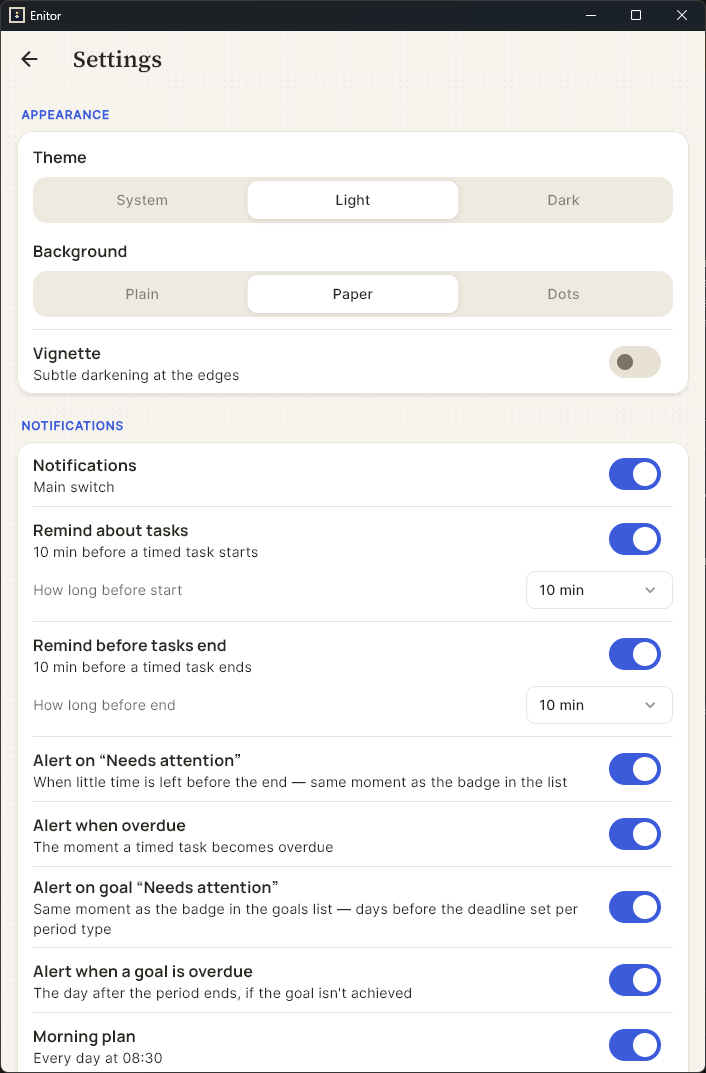
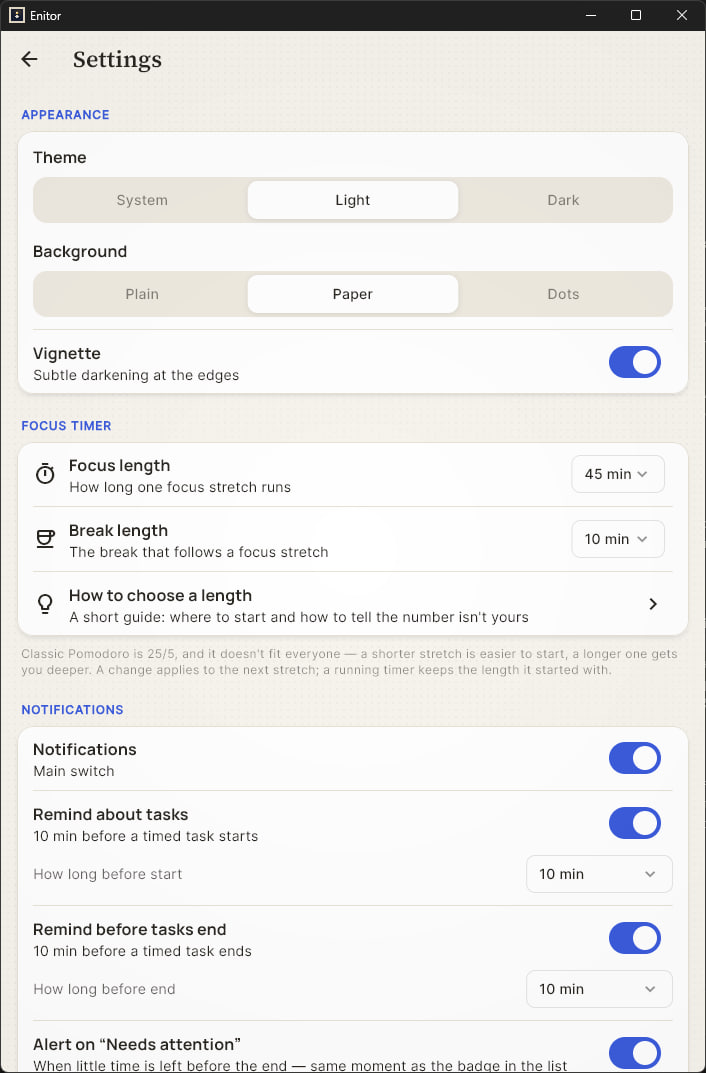
Bring the README and the site up to date with the timer
The configurable lengths shipped, but the pages still described the old fixed
cycle. The README knew about the setting and said nothing about the guide that
comes with it — half of the feature, and the half that decides whether the
setting gets used at all. Both language versions of the site only had the old
line about Pomodoro logging real time.

The site never stated the system requirements. A phone on Android 6 would
download the APK and fail at the installer with nothing to explain why, so the
install cards now say Android 7.0 and Windows 10 outright, the way the README
already did.

The settings screenshot predated the feature: it showed Appearance running
straight into Notifications, with no Focus timer section between them. Replaced
with a current one, and its captions in three places now list what the screen
actually contains.

Deleted docs/ui-changes-log.md. It logged the interface work up to v0.1.0, was
never updated after, and nothing anywhere linked to it — a stale file that
looked like documentation.

diff --git a/docs/ru/index.html b/docs/ru/index.html
@@ -235,7 +235,7 @@
             <li>Серия дней и разница в продуктивности с прошлой неделей</li>
             <li>Достижения за объём, регулярность, пунктуальность и вехи</li>
             <li>Верхние спрятаны под «???», пока не заработаны</li>
-            <li>Сессии Pomodoro сами записываются как потраченное время и питают ту же статистику</li>
+            <li>Сессии Pomodoro сами записываются как потраченное время и питают ту же статистику, а длина фокуса и перерыва настраивается — 25/5 это только значение по умолчанию</li>
           </ul>
         </div>
         <div class="shot">
@@ -336,10 +336,10 @@
           <figcaption>Достижения, часть ещё скрыта</figcaption>
         </figure>
         <figure class="reveal">
-          <button class="zoom" type="button" data-caption="Настройки — тема, фон, напоминания, резервные копии">
-            <picture><source srcset="../screenshots/windows/settings.webp" type="image/webp" /><img src="../screenshots/windows/settings.png" width="706" height="1073" loading="lazy" alt="Настройки: тема, фон, уведомления, резервные копии" /></picture>
+          <button class="zoom" type="button" data-caption="Настройки — тема, фон, таймер фокуса, напоминания, резервные копии">
+            <picture><source srcset="../screenshots/windows/settings.webp" type="image/webp" /><img src="../screenshots/windows/settings.png" width="706" height="1073" loading="lazy" alt="Настройки: тема, фон, длины таймера фокуса, уведомления" /></picture>
           </button>
-          <figcaption>Тема, фон, напоминания, копии</figcaption>
+          <figcaption>Тема, фон, таймер фокуса, напоминания</figcaption>
         </figure>
         <figure class="reveal">
           <button class="zoom" type="button" data-caption="Тёмная тема — отдельное решение, а не инверсия">
@@ -412,7 +412,7 @@
       <div class="plats">
         <div class="plat reveal">
           <h3>Windows</h3>
-          <p class="sub">Портативная сборка — папка, которую можно положить куда угодно.</p>
+          <p class="sub">Портативная сборка — папка, которую можно положить куда угодно. Windows 10 и новее.</p>
           <ol>
             <li>Скачать <code>enitor-vX.Y.Z-windows.zip</code></li>
             <li>Распаковать в любое место</li>
@@ -424,7 +424,7 @@
 
         <div class="plat reveal">
           <h3>Android</h3>
-          <p class="sub">Один APK на arm64, arm32 и x86_64.</p>
+          <p class="sub">Один APK на arm64, arm32 и x86_64. Android 7.0 и новее.</p>
           <ol>
             <li>Скачать <code>enitor-vX.Y.Z.apk</code> на телефон</li>
             <li>Разрешить установку из браузера или файлового менеджера, когда спросит</li>

diff --git a/docs/index.html b/docs/index.html
@@ -242,7 +242,7 @@
             <li>Daily streak, plus your productivity delta against last week</li>
             <li>Achievements for volume, consistency, punctuality and milestones</li>
             <li>Top-tier ones stay hidden as "???" until you earn them</li>
-            <li>Pomodoro sessions log themselves as real time spent, feeding the same stats</li>
+            <li>Pomodoro sessions log themselves as real time spent, feeding the same stats — and both the focus and the break run as long as suits you, 25/5 being only the default</li>
           </ul>
         </div>
         <div class="shot">
@@ -343,10 +343,10 @@
           <figcaption>Achievements, some still hidden</figcaption>
         </figure>
         <figure class="reveal">
-          <button class="zoom" type="button" data-caption="Settings — theme, background, reminders, backup">
-            <picture><source srcset="screenshots/windows/settings.webp" type="image/webp" /><img src="screenshots/windows/settings.png" width="706" height="1073" loading="lazy" alt="Settings: theme, background, notifications, backup" /></picture>
+          <button class="zoom" type="button" data-caption="Settings — theme, background, focus timer, reminders, backup">
+            <picture><source srcset="screenshots/windows/settings.webp" type="image/webp" /><img src="screenshots/windows/settings.png" width="706" height="1073" loading="lazy" alt="Settings: theme, background, focus timer lengths, notifications" /></picture>
           </button>
-          <figcaption>Theme, background, reminders, backup</figcaption>
+          <figcaption>Theme, background, focus timer, reminders</figcaption>
         </figure>
         <figure class="reveal">
           <button class="zoom" type="button" data-caption="Dark theme — a separate decision, not an inversion">
@@ -419,7 +419,7 @@
       <div class="plats">
         <div class="plat reveal">
           <h3>Windows</h3>
-          <p class="sub">Portable build — a folder you can put anywhere.</p>
+          <p class="sub">Portable build — a folder you can put anywhere. Windows 10 or later.</p>
           <ol>
             <li>Download <code>enitor-vX.Y.Z-windows.zip</code></li>
             <li>Unpack it wherever you like</li>
@@ -431,7 +431,7 @@
 
         <div class="plat reveal">
           <h3>Android</h3>
-          <p class="sub">A single APK covering arm64, arm32 and x86_64.</p>
+          <p class="sub">A single APK covering arm64, arm32 and x86_64. Android 7.0 or later.</p>
           <ol>
             <li>Download <code>enitor-vX.Y.Z.apk</code> on the phone</li>
             <li>Allow installing from your browser or file manager when asked</li>

diff --git a/README.md b/README.md
@@ -89,7 +89,7 @@ From the Windows build, on the generated demo data (`scripts/generate_demo_backu
 <tr>
   <td width="33%"><img src="docs/screenshots/windows/achievements.png" alt="Achievements" /><br/><sub>Achievements — 25 in all, some staying hidden until you unlock them</sub></td>
   <td width="33%"><img src="docs/screenshots/windows/tag_stats.png" alt="Tag statistics" /><br/><sub>Tag stats — completion and punctuality per tag, so you can see which areas you actually keep up with</sub></td>
-  <td width="33%"><img src="docs/screenshots/windows/settings.png" alt="Settings" /><br/><sub>Settings — theme, paper texture, and every kind of notification toggled on its own</sub></td>
+  <td width="33%"><img src="docs/screenshots/windows/settings.png" alt="Settings" /><br/><sub>Settings — theme, paper texture, focus timer lengths, and every kind of notification toggled on its own</sub></td>
 </tr>
 </table>
 
@@ -137,6 +137,7 @@ After the first install, Enitor checks GitHub for new releases on its own (about
 ### Pomodoro
 - Focus then break, tied to a specific task. Switching tabs doesn't reset the countdown, and a completed session is logged straight into the task's actual time.
 - Both lengths are configurable (25/5 by default, because the classic numbers fit plenty of people but not everyone). A change takes effect from the next stretch — a running timer keeps the length it started with, so the time logged is always the time actually worked.
+- Next to the setting sits a short guide on picking those numbers: where to start by the kind of work you do, how to read your own reaction at the bell, and what a break is actually for. Its starting points are tappable, so reading "45/10 for work with a warm-up" and setting it are the same gesture. Also reachable from Help / FAQ.
 
 ### Profile & achievements
 - Daily streak (fair — empty days don't touch it), a GitHub-style year heatmap, a weekly retrospective with a productivity delta vs. last week, the goals set for that week, and estimate accuracy against the week before.
@@ -235,7 +236,7 @@ Enitor/
 │   │   ├── templates/             # day task-set templates
 │   │   ├── search/                # search
 │   │   ├── settings/              # settings, notifications
-│   │   ├── help/                  # FAQ
+│   │   ├── help/                  # FAQ + the focus-length guide
 │   │   └── about/                 # about screen
 │   ├── widgets/                  # shared widgets (productivity ring, etc.)
 │   └── services/                 # notifications, updates
